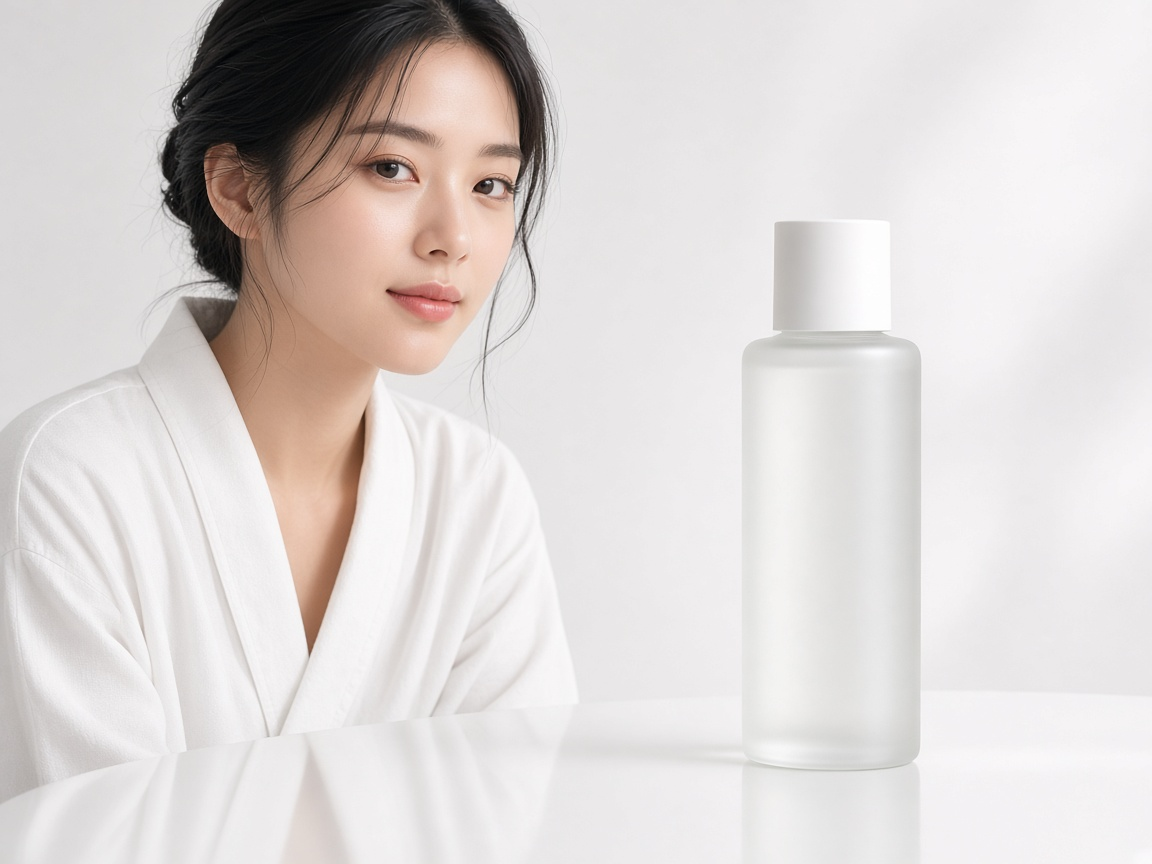
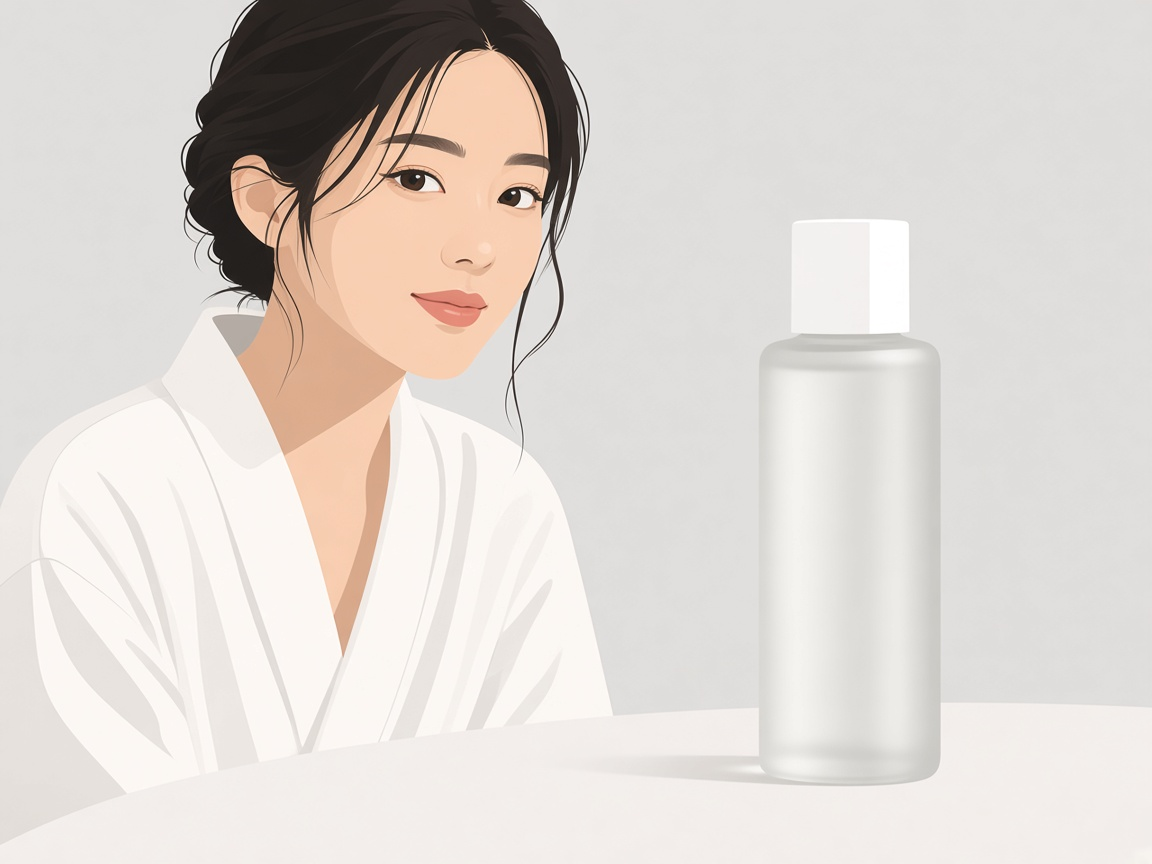
プランを選び直せるようにし、購入ボタンと事例⑬のイラストを直す。

diff --git a/cases/08.html b/cases/08.html
@@ -68,6 +68,7 @@
     <p>標高1,200mの湧水を、非加熱のままボトルに詰めました。独自のセラミックでマイナスイオンをまとい、口に含んだ瞬間から、体の内側が澄むような軽さです。</p>
     <h4>おすすめの飲み方</h4>
     <p>朝起きてすぐ、常温のまま200ml。食事の30分前に残りの300mlをゆっくり。冷やしても構いません。常温のほうがイオンが安定します。</p>
+    <div class="demo-actions"><button class="demo-button demo-button--loud" type="button" data-demo-message="購入手続きへ進みました。" data-demo-tone="dark">★★ 今すぐ購入する ★★</button></div>
     <h4>原材料</h4>
     <p>水（鉱水）。保存料・着色料・香料は不使用。1本500ml。定期便は30日ごとにお届けします。開封後は冷蔵庫で保管し、その日のうちに飲みきってください。</p>
     <div class="demo-card"><strong>お客様の声</strong><p>「朝のコップ1杯で、なんとなく軽い。」（50代・購入者）</p><p class="demo-note-dim">※個人の感想であり、効果を保証するものではありません。</p></div>
@@ -82,17 +83,21 @@
       <section id="panel-good" role="tabpanel" aria-labelledby="tab-good" hidden>
 <div class="demo-window">
   <div class="demo-chrome"><span class="demo-url">example-store.jp/item</span></div>
+  <div class="demo-stage">
   <div class="demo-body demo-body--scroll">
     <h3>ピュアイオン・ウォーター</h3>
     <p class="demo-price">定期初回 980円 <span class="demo-small">（2回目以降 4,800円）</span></p>
     <p>標高1,200mの湧水を、非加熱のままボトルに詰めました。独自のセラミックでマイナスイオンをまとい、口に含んだ瞬間から、体の内側が澄むような軽さです。</p>
     <h4>おすすめの飲み方</h4>
     <p>朝起きてすぐ、常温のまま200ml。食事の30分前に残りの300mlをゆっくり。冷やしても構いません。常温のほうがイオンが安定します。</p>
+    <div class="demo-actions"><button class="demo-button demo-button--good" type="button" data-demo-message="購入手続きへ進みました。" data-demo-tone="good">購入手続きへ</button></div>
     <h4>原材料</h4>
     <p>水（鉱水）。保存料・着色料・香料は不使用。1本500ml。定期便は30日ごとにお届けします。開封後は冷蔵庫で保管し、その日のうちに飲みきってください。</p>
     <div class="demo-card"><strong>お客様の声</strong><p>「朝のコップ1杯で、なんとなく軽い。」（50代・購入者）</p><p class="demo-note-dim">※個人の感想であり、効果を保証するものではありません。</p></div>
     <div class="demo-card"><strong>配送</strong><p class="demo-small">通常3〜5日。クール便は別料金です。</p></div>
     <div class="demo-actions"><button class="demo-button demo-button--good" type="button" data-demo-message="購入手続きへ進みました。" data-demo-tone="good">購入手続きへ</button></div>
+  </div>
+  <div class="demo-sticky demo-sticky--quiet"><button class="demo-button demo-button--good demo-button--compact" type="button" data-demo-message="購入手続きへ進みました。" data-demo-tone="good">購入手続きへ</button><button class="demo-button demo-button--quiet demo-button--compact" type="button" data-demo-dismiss data-demo-message="追従の購入ボタンを閉じました。" data-demo-tone="neutral">閉じる</button></div>
   </div>
   <p class="demo-feedback" aria-live="polite"></p>
 </div>

diff --git a/cases/10.html b/cases/10.html
@@ -62,13 +62,14 @@
 <div class="demo-window">
   <div class="demo-chrome"><span class="demo-url">example-cloud.jp/pricing</span></div>
   <div class="demo-body">
-    <span class="demo-badge">おすすめ</span><h3>プレミアムプラン</h3><p class="demo-price">月額 4,800円</p><p>全機能・優先サポート・容量無制限</p>
-    <button class="demo-button" type="button" data-demo-message="プレミアムを選択しました。" data-demo-tone="dark">このプランを選ぶ</button>
-    <button class="demo-button demo-button--secondary" type="button" data-demo-reveal="case10-dark-plans" aria-controls="case10-dark-plans">すべてのプランを見る</button>
-    <div id="case10-dark-plans" class="demo-plans" hidden>
-      <div class="demo-plan"><strong>ライト</strong><p class="demo-price">980円</p><p class="demo-small">容量10GB</p></div>
-      <div class="demo-plan"><strong>標準</strong><p class="demo-price">1,980円</p><p class="demo-small">容量100GB</p></div>
+    <div class="demo-plans">
+      <div class="demo-plan demo-plan--featured"><span class="demo-badge">おすすめ</span><h3>プレミアムプラン</h3><p class="demo-price">月額 4,800円</p><p>全機能・優先サポート・容量無制限</p><button class="demo-button" type="button" data-demo-select data-demo-select-label="このプランを選ぶ" data-demo-message="プレミアムを選択しました。" data-demo-tone="dark">このプランを選ぶ</button></div>
+      <div id="case10-dark-plans" class="demo-plan-more" hidden>
+        <div class="demo-plan"><strong>ライト</strong><p class="demo-price">980円</p><p class="demo-small">容量10GB</p><button class="demo-button demo-button--secondary" type="button" data-demo-select data-demo-message="ライトを選択しました。" data-demo-tone="dark">選択</button></div>
+        <div class="demo-plan"><strong>標準</strong><p class="demo-price">1,980円</p><p class="demo-small">容量100GB</p><button class="demo-button demo-button--secondary" type="button" data-demo-select data-demo-message="標準を選択しました。" data-demo-tone="dark">選択</button></div>
+      </div>
     </div>
+    <button class="demo-button demo-button--secondary" type="button" data-demo-reveal="case10-dark-plans" aria-controls="case10-dark-plans">すべてのプランを見る</button>
   </div>
   <p class="demo-feedback" aria-live="polite"></p>
 </div>

diff --git a/cases/13.html b/cases/13.html
@@ -61,7 +61,7 @@
 <div class="demo-window">
   <div class="demo-chrome"><span class="demo-url">example-beauty.jp/voice</span></div>
   <div class="demo-body">
-    <img class="demo-photo" src="../assets/img/13/voice.jpg" alt="化粧水のボトルを持つ人物" width="1152" height="864">
+    <img class="demo-photo" src="../assets/img/13/voice.jpg?v=illust" alt="化粧水のボトルを持つ人物のイラスト" width="1152" height="864">
     <h3>「この1本で、朝の肌が軽い」</h3>
     <p class="demo-stars" aria-label="5つ星のうち5">★★★★★</p>
     <p>マイナスイオン化粧水は、私の必需品です♪</p>
@@ -77,8 +77,8 @@
   <div class="demo-chrome"><span class="demo-url">example-beauty.jp/voice</span></div>
   <div class="demo-body">
     <figure class="demo-photo-block">
-      <img class="demo-photo" src="../assets/img/13/model.jpg" alt="白い衣装のモデルと化粧水のボトル" width="1152" height="864">
-      <figcaption><strong>商品イメージ</strong><p class="demo-small">この人物はモデルであり、購入者ではありません。商品はマイナスイオン化粧水です。</p></figcaption>
+      <img class="demo-photo" src="../assets/img/13/model.jpg?v=illust" alt="白い衣装のモデルと化粧水のボトルのイラスト" width="1152" height="864">
+      <figcaption><strong>商品イメージ</strong><p class="demo-small">この人物はモデルであり、購入者ではありません。</p></figcaption>
     </figure>
     <h3>購入者レビュー</h3>
     <div class="demo-review"><p class="demo-stars" aria-label="5つ星のうち4">★★★★☆</p><span class="demo-badge">購入確認済み</span><p>香りが好みでした。朝の化粧前に使っています。</p></div>

diff --git a/js/demos.js b/js/demos.js
@@ -3,6 +3,7 @@ const triggerSelector = [
   "[data-demo-reveal]",
   "[data-demo-step]",
   "[data-demo-toggle]",
+  "[data-demo-dismiss]",
   "[data-mock-action]",
 ].join(",");
 
@@ -41,8 +42,16 @@ const selectPlan = (trigger) => {
     const selected = item === plan;
     item.classList.toggle("is-selected", selected);
     const button = item.querySelector("[data-demo-select]");
-    if (button) button.textContent = selected ? "選択中" : "選択";
+    if (!button) continue;
+    const label = button.dataset.demoSelectLabel || "選択";
+    button.textContent = selected ? "選択中" : label;
   }
+};
+
+const dismiss = (trigger) => {
+  if (!trigger.hasAttribute("data-demo-dismiss")) return;
+  const target = trigger.closest(".demo-sticky");
+  if (target) target.hidden = true;
 };
 
 const showStep = (trigger, id) => {
@@ -81,6 +90,7 @@ export function initDemos() {
 
     showFeedback(trigger);
     selectPlan(trigger);
+    dismiss(trigger);
     if (trigger.dataset.demoReveal) reveal(trigger.dataset.demoReveal);
     if (trigger.dataset.demoToggle) toggle(trigger.dataset.demoToggle);
     if (trigger.dataset.demoStep) showStep(trigger, trigger.dataset.demoStep);

diff --git a/cases/09.html b/cases/09.html
@@ -85,7 +85,7 @@
     </div>
     <div id="case09-step5" class="demo-step" hidden>
       <div class="demo-progress"><span class="is-active"></span><span class="is-active"></span><span class="is-active"></span><span class="is-active"></span><span class="is-active"></span></div>
-      <h3>最終確認</h3><button class="demo-button demo-button--quiet" type="button" data-demo-message="解約しました。" data-demo-tone="dark">解約を確定する</button>
+      <h3>最終確認</h3><div class="demo-actions"><button class="demo-button demo-button--quiet" type="button" data-demo-message="解約しました。" data-demo-tone="dark">解約を確定する</button></div>
     </div>
   </div>
   <p class="demo-feedback" aria-live="polite"></p>

diff --git a/css/case-mocks.css b/css/case-mocks.css
@@ -86,6 +86,14 @@
   margin: 0;
 }
 
+.demo-plan-more {
+  display: contents;
+}
+
+.demo-plan .demo-button {
+  margin-top: var(--space-3);
+}
+
 .demo-body h3,
 .demo-body h4 {
   margin: 0;
@@ -475,6 +483,21 @@
   padding: var(--space-3) var(--space-4);
   background: var(--color-dark-soft);
   border-top: 3px solid var(--mock-accent);
+}
+
+.demo-sticky--quiet {
+  display: flex;
+  gap: var(--space-2);
+  align-items: center;
+  justify-content: space-between;
+  padding: var(--space-2) var(--space-3);
+  background: var(--color-surface);
+  border-top: 1px solid var(--color-border);
+}
+
+.demo-sticky--quiet .demo-button {
+  width: auto;
+  flex: 0 1 auto;
 }
 
 .demo-spacer {
